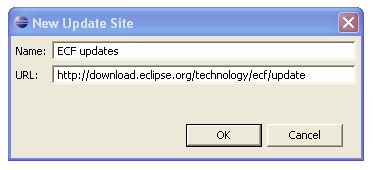
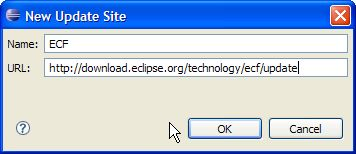
added update_install.php page and supporting images.

diff --git a/update_install.php b/update_install.php
@@ -45,8 +45,47 @@ ob_start();
          you will need to change the radio button to indicate that this is a new install.</p>
          <img src="images/install-2.png" alt="Install screen" />
 
-	     
+	     <h4>Step 3:</h4>
+
+<p>This screen will vary depending on the features you have installed already.  You want
+to click on the New Remote Site button.</p>
+<img src="images/install-3.png" alt="Install screen" />
+
+<h4>Step 4:</h4>
+<p>This screen is showing the New Remote Site dialog, filled in with the correct information
+to install ECF</p>
+<pre>
+    Name: ECF
+    URL:  http://download.eclipse.org/technology/ecf/update
+</pre>
+<img src="images/install-4.png" alt="Install screen" />
 	   
+	   <h4>Step 5:</h4>
+<p>When you first come back to this screen, the site you added will NOT be selected.  Be sure
+to select it before clicking Next.</p>
+
+<img src="images/install-5.png" alt="Install screen" />
+
+<h4>Step 6:</h4>
+<p>This next screen shows all of the features that are available to install.</p>
+<img src="images/install-6.png" alt="Install screen" />
+
+<h4>Step 7:</h4>
+<p>Click the button to accept the license agreement.</p>
+<img src="images/install-7.png" alt="Install screen" />
+
+<h4>Step 8:</h4>
+<p>Confirm the install location</p>
+
+<img src="images/install-8.png" alt="Install screen" />
+
+<h4>Step 9:</h4>
+The ECF plugins will be downloaded and installed.
+
+<h4>Step 10:</h4>
+<p>Eclipse needs to be restarted after installing ECF.</p>
+
+
        </div>
     </div>
 	
